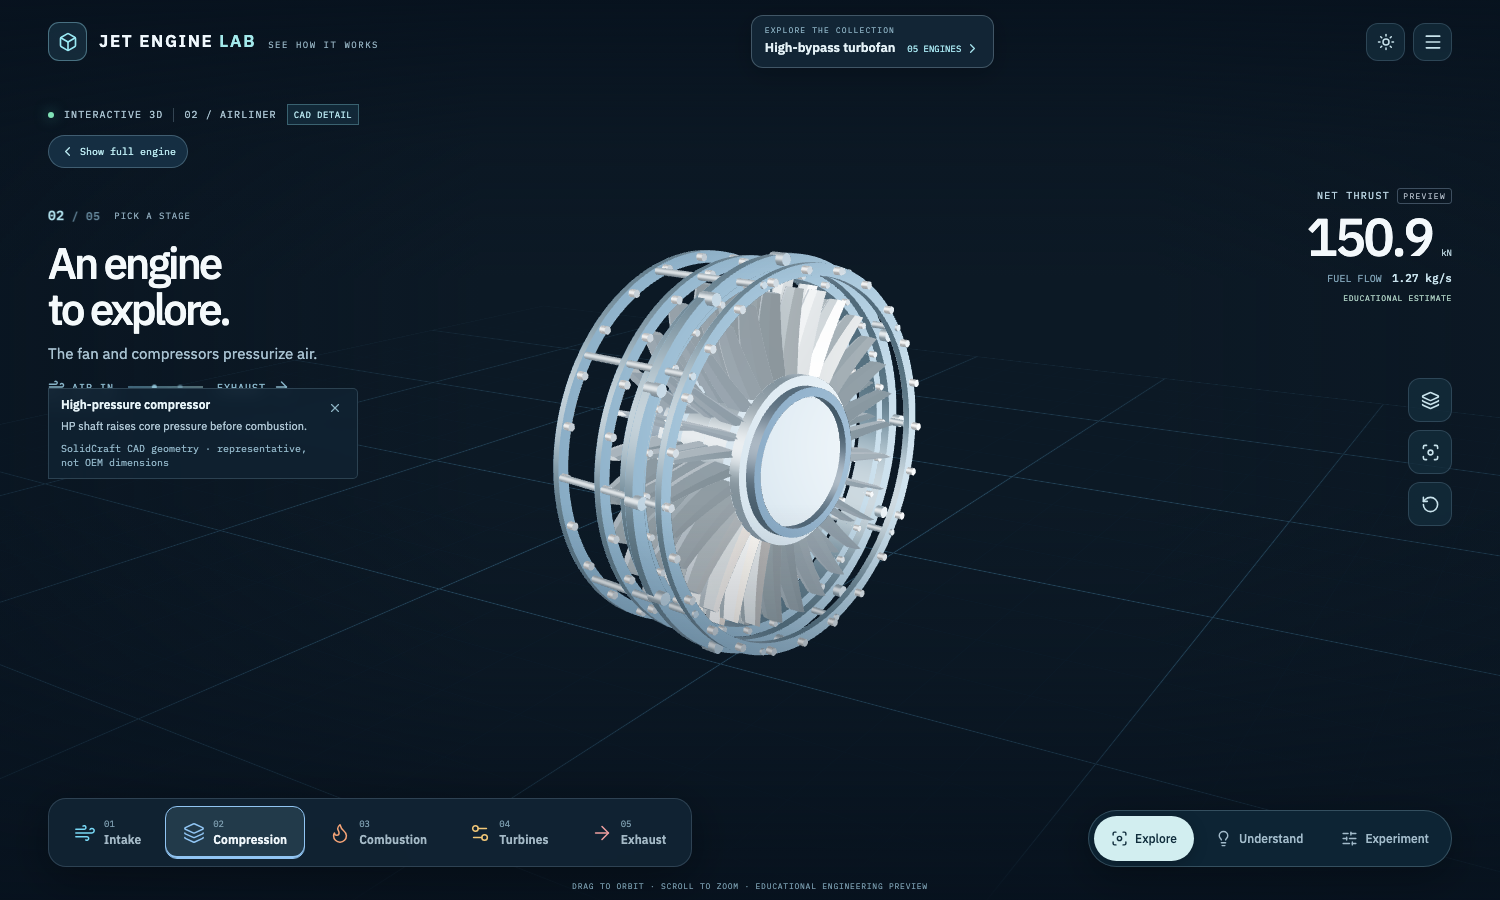
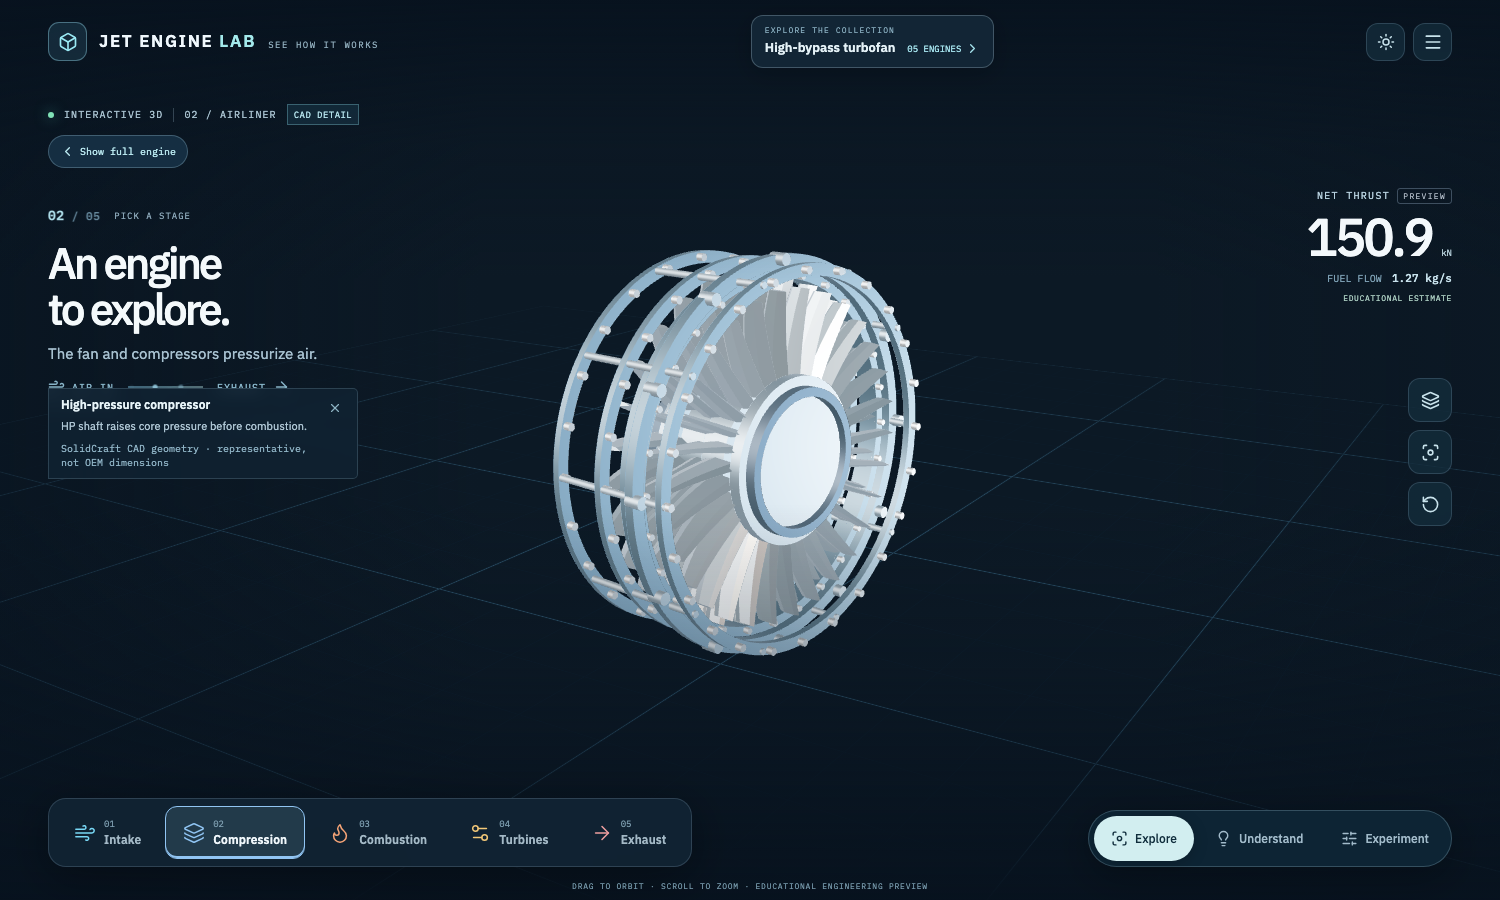
Reveal complete SolidCraft assemblies without partial CAD placeholders

diff --git a/src/app/engine/EngineViewport.tsx b/src/app/engine/EngineViewport.tsx
@@ -1,6 +1,6 @@
-import { Component, Suspense, useEffect, useMemo, useRef, type ReactNode } from 'react';
+import { Component, Suspense, useCallback, useEffect, useMemo, useRef, useState, type ReactNode } from 'react';
 import { Canvas, useThree, type ThreeEvent } from '@react-three/fiber';
-import { OrbitControls, Grid, ContactShadows, Environment, Html } from '@react-three/drei';
+import { OrbitControls, Grid, ContactShadows, Environment } from '@react-three/drei';
 import * as THREE from 'three';
 import type {ToolMode} from '../studio/project';
 import type { OrbitControls as OrbitControlsImpl } from 'three-stdlib';
@@ -11,23 +11,36 @@ import {IllustrationOverlay,type OverlayMode} from './SpecialGeometry';
 import { PARTS, type Part } from '../data/parts';
 import {EngineFlowParticles} from './EngineFlowParticles';
 import {SolidCraftDetail,SolidCraftShaft} from './SolidCraftDetail';
-/** No substitute meshes: every visible physical component is SolidCraft CAD. */
-class CadAssetBoundary extends Component<{children:ReactNode;part:Part},{failed:boolean}>{
+/** Assembly is all-or-nothing: never present an incomplete engine as a finished CAD model. */
+class CadAssemblyBoundary extends Component<{children:ReactNode;engine:VisualEngineId;onError:()=>void},{failed:boolean}>{
  state={failed:false};
  static getDerivedStateFromError(){return {failed:true};}
- componentDidCatch(error:Error){console.error('SolidCraft CAD unavailable:',this.props.part.id,error.message);}
- render(){return this.state.failed?
-  <Html center distanceFactor={10} className="cad-asset-error" aria-live="assertive">
-   <div role="alert"><strong>CAD ASSET UNAVAILABLE</strong><span>{this.props.part.name}</span><small>Reload to retry the original SolidCraft model.</small></div>
-  </Html>:this.props.children;}
+ componentDidCatch(error:Error){console.error('SolidCraft CAD assembly unavailable:',this.props.engine,error.message);this.props.onError();}
+ render(){return this.state.failed?null:this.props.children;}
+}
+function CadAssemblyReady({onReady}:{onReady:()=>void}){
+ useEffect(()=>onReady(),[onReady]);
+ return null;
+}
+function CadAssemblyState({failed}:{failed:boolean}){
+ return <div className={'cad-assembly-overlay'+(failed?' cad-asset-error':' cad-loading-surface')}>
+  {failed?<div className="cad-assembly-state cad-assembly-failed" role="alert">
+   <strong>CAD ASSET UNAVAILABLE</strong>
+   <p>The complete original SolidCraft assembly could not be loaded.</p>
+   <button type="button" onClick={()=>window.location.reload()}>Retry loading CAD</button>
+  </div>:<div className="cad-assembly-state cad-assembly-loading" role="status" aria-live="polite">
+   <div className="cad-loading-trace" aria-hidden="true"><span/><span/><span/><span/><span/></div>
+   <strong>Assembling SolidCraft CAD</strong>
+   <p>Loading the original 3D components and drive shafts.</p>
+   <div className="cad-loading-track" aria-hidden="true"><span/></div>
+  </div>}
+ </div>;
 }
 function Section({part,selected,onSelect,explode,showShell,nozzleOpen,toolMode,onMeasurePoint}:{part:Part;selected:boolean;onSelect:(id:string)=>void;explode:number;showShell:boolean;nozzleOpen:number;toolMode:ToolMode;onMeasurePoint:(p:[number,number,number])=>void}){
  const displacement=explode*(part.x<0?-1:1)*(1.2+Math.abs(part.x)*.1);
  const pick=(e:ThreeEvent<MouseEvent>)=>{e.stopPropagation();if(toolMode==='measure')onMeasurePoint([e.point.x,e.point.y,e.point.z]);else onSelect(part.id);};
  return <group name={'cad-part-'+part.id} position={[part.x+displacement,0,0]} onClick={pick} userData={{cadPart:part.id,selected}}>
-  <CadAssetBoundary key={part.id} part={part}>
-   <Suspense fallback={null}><SolidCraftDetail kind={part.kind} radius={part.radius} shaft={part.shaft} showShell={showShell} selected={selected} nozzleOpen={nozzleOpen}/></Suspense>
-  </CadAssetBoundary>
+  <SolidCraftDetail kind={part.kind} radius={part.radius} shaft={part.shaft} showShell={showShell} selected={selected} nozzleOpen={nozzleOpen}/>
  </group>;
 }
 function MeasurementSegment({points}:{points:[number,number,number][]}){
@@ -35,7 +48,7 @@ function MeasurementSegment({points}:{points:[number,number,number][]}){
  useEffect(()=>()=>{line.geometry.dispose();(line.material as THREE.Material).dispose()},[line]);
  return <primitive object={line}/>;
 }
-function World({engine,selected,onSelect,explode,showShell,nozzleOpen,afterburnerOn,preset,viewReset,toolMode,onMeasurePoint,measurePoints,sectionEnabled,sectionOffset,theme,overlay,focusPart,flowEnabled}:{engine:VisualEngineId;selected:string;onSelect:(s:string)=>void;explode:number;showShell:boolean;nozzleOpen:number;afterburnerOn:boolean;preset:ViewPreset;viewReset:number;toolMode:ToolMode;onMeasurePoint:(p:[number,number,number])=>void;measurePoints:[number,number,number][];sectionEnabled:boolean;sectionOffset:number;theme:string;overlay:OverlayMode;focusPart:string|null;flowEnabled:boolean}){
+function World({engine,selected,onSelect,explode,showShell,nozzleOpen,afterburnerOn,preset,viewReset,toolMode,onMeasurePoint,measurePoints,sectionEnabled,sectionOffset,theme,overlay,focusPart,flowEnabled,onAssemblyReady,onAssemblyError}:{engine:VisualEngineId;selected:string;onSelect:(s:string)=>void;explode:number;showShell:boolean;nozzleOpen:number;afterburnerOn:boolean;preset:ViewPreset;viewReset:number;toolMode:ToolMode;onMeasurePoint:(p:[number,number,number])=>void;measurePoints:[number,number,number][];sectionEnabled:boolean;sectionOffset:number;theme:string;overlay:OverlayMode;focusPart:string|null;flowEnabled:boolean;onAssemblyReady:()=>void;onAssemblyError:()=>void}){
  const parts=PARTS[engine];
  const orbitRef=useRef<OrbitControlsImpl>(null);
  const lastFitContext=useRef('');
@@ -109,8 +122,15 @@ function World({engine,selected,onSelect,explode,showShell,nozzleOpen,afterburne
  <group rotation={[0,-.16,0]}>
    <IllustrationOverlay engine={engine} mode={overlay}/>
    {flowEnabled&&!focusPart&&<EngineFlowParticles engine={engine}/>}
-   {!focusPart&&<CadAssetBoundary part={{id:'shaft',name:'Original SolidCraft drive shafts',kind:'turbine',x:0,radius:0,role:'',shaft:null}}><Suspense fallback={null}><SolidCraftShaft engine={engine} selected={false}/></Suspense></CadAssetBoundary>}
-   {parts.filter(p=>!focusPart||p.id===focusPart).map(p=><Section key={p.id} part={p} selected={selected===p.id} onSelect={onSelect} explode={explode} showShell={showShell} nozzleOpen={nozzleOpen} toolMode={toolMode} onMeasurePoint={onMeasurePoint}/>)}
+   <CadAssemblyBoundary key={engine+':'+(focusPart??'complete')} engine={engine} onError={onAssemblyError}>
+    <Suspense fallback={null}>
+     <group name="original-solidcraft-cad-assembly">
+      {!focusPart&&<SolidCraftShaft engine={engine} selected={false}/>}
+      {parts.filter(p=>!focusPart||p.id===focusPart).map(p=><Section key={p.id} part={p} selected={selected===p.id} onSelect={onSelect} explode={explode} showShell={showShell} nozzleOpen={nozzleOpen} toolMode={toolMode} onMeasurePoint={onMeasurePoint}/>)}
+      <CadAssemblyReady onReady={onAssemblyReady}/>
+     </group>
+    </Suspense>
+   </CadAssemblyBoundary>
  </group>
  {measurePoints.map((pos,i)=><mesh key={i} position={pos}><sphereGeometry args={[.09,16,12]}/><meshBasicMaterial color={i===0?'#5ee5ef':'#ffc477'} depthTest={false}/></mesh>)}
  {measurePoints.length===2&&<MeasurementSegment points={measurePoints}/>}
@@ -132,8 +152,16 @@ function webGLSupported(){
 }
 export type ViewPreset='threequarter'|'side'|'top'|'axial';
 export function EngineViewport({engine,selected,onSelect,explode,showShell,preset='threequarter',viewReset=0,toolMode='select',onMeasurePoint=()=>{},measurePoints=[],sectionEnabled=false,sectionOffset=0,theme='dark',overlay='none',focusPart=null,flowEnabled=true,nozzleOpen=.5,afterburnerOn=false}:{engine:VisualEngineId;selected:string;onSelect:(s:string)=>void;explode:number;showShell:boolean;result:Result|null;preset?:ViewPreset;viewReset?:number;toolMode?:ToolMode;onMeasurePoint?:(p:[number,number,number])=>void;measurePoints?:[number,number,number][];sectionEnabled?:boolean;sectionOffset?:number;theme?:string;overlay?:OverlayMode;focusPart?:string|null;flowEnabled?:boolean;nozzleOpen?:number;afterburnerOn?:boolean}){
+ const assemblyKey=engine+':'+(focusPart??'complete');
+ const [assembly,setAssembly]=useState<{key:string;status:'ready'|'failed'}|null>(null);
+ const onAssemblyReady=useCallback(()=>setAssembly({key:assemblyKey,status:'ready'}),[assemblyKey]);
+ const onAssemblyError=useCallback(()=>setAssembly({key:assemblyKey,status:'failed'}),[assemblyKey]);
+ const status=assembly?.key===assemblyKey?assembly.status:'loading';
  if(!webGLSupported())return <WebGLUnavailable/>;
- return <Canvas key={engine} dpr={[1,1.7]} gl={{antialias:true,powerPreference:'high-performance'}} camera={{position:typeof window!=='undefined'&&window.innerWidth<680?[21,10,34]:[8,4.4,12.4],fov:36,near:.1,far:100}} aria-label={engine+' interactive 3D engine model'}>
-  <World engine={engine} selected={selected} onSelect={onSelect} explode={explode} showShell={showShell} nozzleOpen={nozzleOpen} afterburnerOn={afterburnerOn} preset={preset} viewReset={viewReset} toolMode={toolMode} onMeasurePoint={onMeasurePoint} measurePoints={measurePoints} sectionEnabled={sectionEnabled} sectionOffset={sectionOffset} theme={theme} overlay={overlay} focusPart={focusPart} flowEnabled={flowEnabled}/>
- </Canvas>;
+ return <>
+  <Canvas key={engine} dpr={[1,1.7]} gl={{antialias:true,powerPreference:'high-performance'}} camera={{position:typeof window!=='undefined'&&window.innerWidth<680?[21,10,34]:[8,4.4,12.4],fov:36,near:.1,far:100}} aria-label={engine+' interactive 3D engine model'}>
+   <World engine={engine} selected={selected} onSelect={onSelect} explode={explode} showShell={showShell} nozzleOpen={nozzleOpen} afterburnerOn={afterburnerOn} preset={preset} viewReset={viewReset} toolMode={toolMode} onMeasurePoint={onMeasurePoint} measurePoints={measurePoints} sectionEnabled={sectionEnabled} sectionOffset={sectionOffset} theme={theme} overlay={overlay} focusPart={focusPart} flowEnabled={flowEnabled} onAssemblyReady={onAssemblyReady} onAssemblyError={onAssemblyError}/>
+  </Canvas>
+  {status!=='ready'&&<CadAssemblyState failed={status==='failed'}/>}
+ </>;
 }

diff --git a/src/app/visual/visual.css b/src/app/visual/visual.css
@@ -5,6 +5,23 @@
 .visual-engine-scene{position:absolute;inset:0;z-index:0}
 .visual-engine-scene>div{height:100%;width:100%}
 .visual-engine-scene canvas{display:block;width:100%;height:100%;touch-action:none}
+.cad-assembly-overlay{position:absolute;inset:0;z-index:2;pointer-events:none}
+.cad-assembly-state{width:100%;height:100%;display:flex;flex-direction:column;align-items:center;justify-content:center;gap:10px;text-align:center;padding:90px 18px 140px;color:#e9f4f9;font-family:'IBM Plex Sans',sans-serif}
+.cad-assembly-state strong{font-size:clamp(17px,2vw,23px);font-weight:600;letter-spacing:-.025em}
+.cad-assembly-state p{font-size:12px;line-height:1.55;color:#a5c1ce;max-width:270px;margin:0}
+.cad-loading-trace{display:flex;align-items:center;justify-content:center;gap:7px;height:54px;margin-bottom:12px}
+.cad-loading-trace span{display:block;width:5px;border-radius:4px;background:#97dce5;animation:cad-trace-pulse 1.6s ease-in-out infinite alternate;box-shadow:0 0 12px #93dae554}
+.cad-loading-trace span:nth-child(1),.cad-loading-trace span:nth-child(5){height:15px;animation-delay:-1.2s}
+.cad-loading-trace span:nth-child(2),.cad-loading-trace span:nth-child(4){height:29px;animation-delay:-.8s}
+.cad-loading-trace span:nth-child(3){height:47px;animation-delay:-.4s}
+@keyframes cad-trace-pulse{from{opacity:.25;transform:scaleY(.45)}to{opacity:1;transform:scaleY(1)}}
+.cad-loading-track{position:relative;overflow:hidden;width:156px;height:2px;background:#668a9b55;margin-top:15px}
+.cad-loading-track span{position:absolute;top:0;left:0;width:42%;height:100%;background:#a4edf1;animation:cad-track-slide 1.5s ease-in-out infinite}
+@keyframes cad-track-slide{from{transform:translateX(-100%)}to{transform:translateX(340%)}}
+.cad-assembly-failed{background:#0c1c2ce6;pointer-events:none}
+.cad-assembly-failed strong{color:#f6ba99}
+.cad-assembly-failed button{margin-top:12px;padding:11px 17px;border-radius:7px;border:1px solid #8eacb9;background:#203f50;color:#f1faff;font:600 12px 'IBM Plex Sans',sans-serif;cursor:pointer;pointer-events:auto}
+.cad-assembly-failed button:hover,.cad-assembly-failed button:focus-visible{background:#315c70;border-color:#b2e4eb}
 .visual-scene-shade{position:absolute;inset:0;z-index:1;pointer-events:none;background:linear-gradient(180deg,#07121eeb 0%,#07121e35 16%,transparent 31%,transparent 56%,#07121e40 74%,#07121efa 100%),linear-gradient(90deg,#07121e78 0%,transparent 32%,transparent 77%,#07121e35 100%)}
 .visual-header,.visual-coordinate,.visual-side-controls,.visual-flow,.visual-narrative,.visual-readout,.visual-bottom,.visual-options,.visual-experiment,.visual-disclaimer{position:absolute;z-index:3}
 .visual-header{left:0;right:0;top:0;height:83px;display:flex;align-items:center;justify-content:space-between;padding:0 clamp(18px,3.2vw,56px);gap:25px}
@@ -109,6 +126,10 @@
  .visual-experiment{top:170px;max-height:calc(100dvh - 310px)}
 }
 @media(max-width:600px){
+ .cad-assembly-state{padding:108px 20px 245px;gap:8px}
+ .cad-assembly-state strong{font-size:16px}
+ .cad-assembly-state p{font-size:11px;max-width:200px}
+ .cad-loading-trace{margin-bottom:8px}
  .visual-header{height:64px;padding:0 13px;gap:8px}
  .visual-logo{gap:7px}.visual-logo>span{height:30px;width:30px;border-radius:8px}.visual-logo>b{font-size:11px;letter-spacing:0}.visual-logo small{display:none}
  .visual-switch{padding:3px;gap:1px}
@@ -239,3 +260,7 @@
 .visual-back-engine:hover,.visual-back-engine:focus-visible{border-color:#a8eff5;background:#264b5d}
 @media(max-width:600px){.visual-back-engine{left:auto;right:13px;top:94px;padding:6px 8px;font-size:9px}}
 [data-theme=light] .visual-back-engine{background:#e5f0f6;color:#285b70;border-color:#a6c1ce}
+[data-theme=light] .cad-assembly-state{color:#214a5d}
+[data-theme=light] .cad-assembly-state p{color:#456b7d}
+[data-theme=light] .cad-assembly-failed{background:#e7f1f6ee}
+[data-theme=light] .cad-assembly-failed strong{color:#8c3a28}

diff --git a/README.md b/README.md
@@ -24,7 +24,7 @@ Jet Engine Lab is a free, browser-based aerospace learning experience. The engin
 | [Centrifugal turbojet](https://aungmyokyaw.github.io/jet-engine-lab/#/engines/centrifugal-turbojet) | A rotating impeller throws air radially outward | **3D visual study only** |
 | [Geared turbofan](https://aungmyokyaw.github.io/jet-engine-lab/#/engines/geared-turbofan) | A reduction gearbox allows a slower fan | **3D visual study only** |
 
-Every engine is an **interactive 3D CAD assembly**, not a static image. **24 original SolidCraft B-rep design families** supply the drive shafts, fan, compressor, combustor, turbine, bearings, guide vanes, gearbox and nozzle hardware. Every visible mechanical part in the WebGL engine scenes is a model authored with SolidCraft CLI; animated airflow, explanatory power cues and lighting are visual effects. All five gallery cards use renders of the same assembled CAD scenes. If an original CAD asset fails to load, the viewer reports the failure instead of substituting another engine model.
+Every engine is an **interactive 3D CAD assembly**, not a static image. **24 original SolidCraft B-rep design families** supply the drive shafts, fan, compressor, combustor, turbine, bearings, guide vanes, gearbox and nozzle hardware. Every visible mechanical part in the WebGL engine scenes is a model authored with SolidCraft CLI; animated airflow, explanatory power cues and lighting are visual effects. All five gallery cards use renders of the same assembled CAD scenes. The viewer waits for the complete CAD assembly before revealing it. If an original CAD asset fails, the viewer reports the failure with a retry action instead of substituting another engine model.
 
 ## Inspect the machinery, not just the shell
 
@@ -79,6 +79,7 @@ bun run test
 bun run build
 bun run smoke             # Existing 3D experience plus all five engine-gallery workflows
 bun run smoke:cad:full     # All five assemblies, 3D asset responses, screenshots (preview server on :4173)
+bun run smoke:cad:reveal   # Entire CAD assembly loads together; missing-part retry tested
 bun run smoke:production  # Static production build, missing-asset error and offline shell
 ```
 
